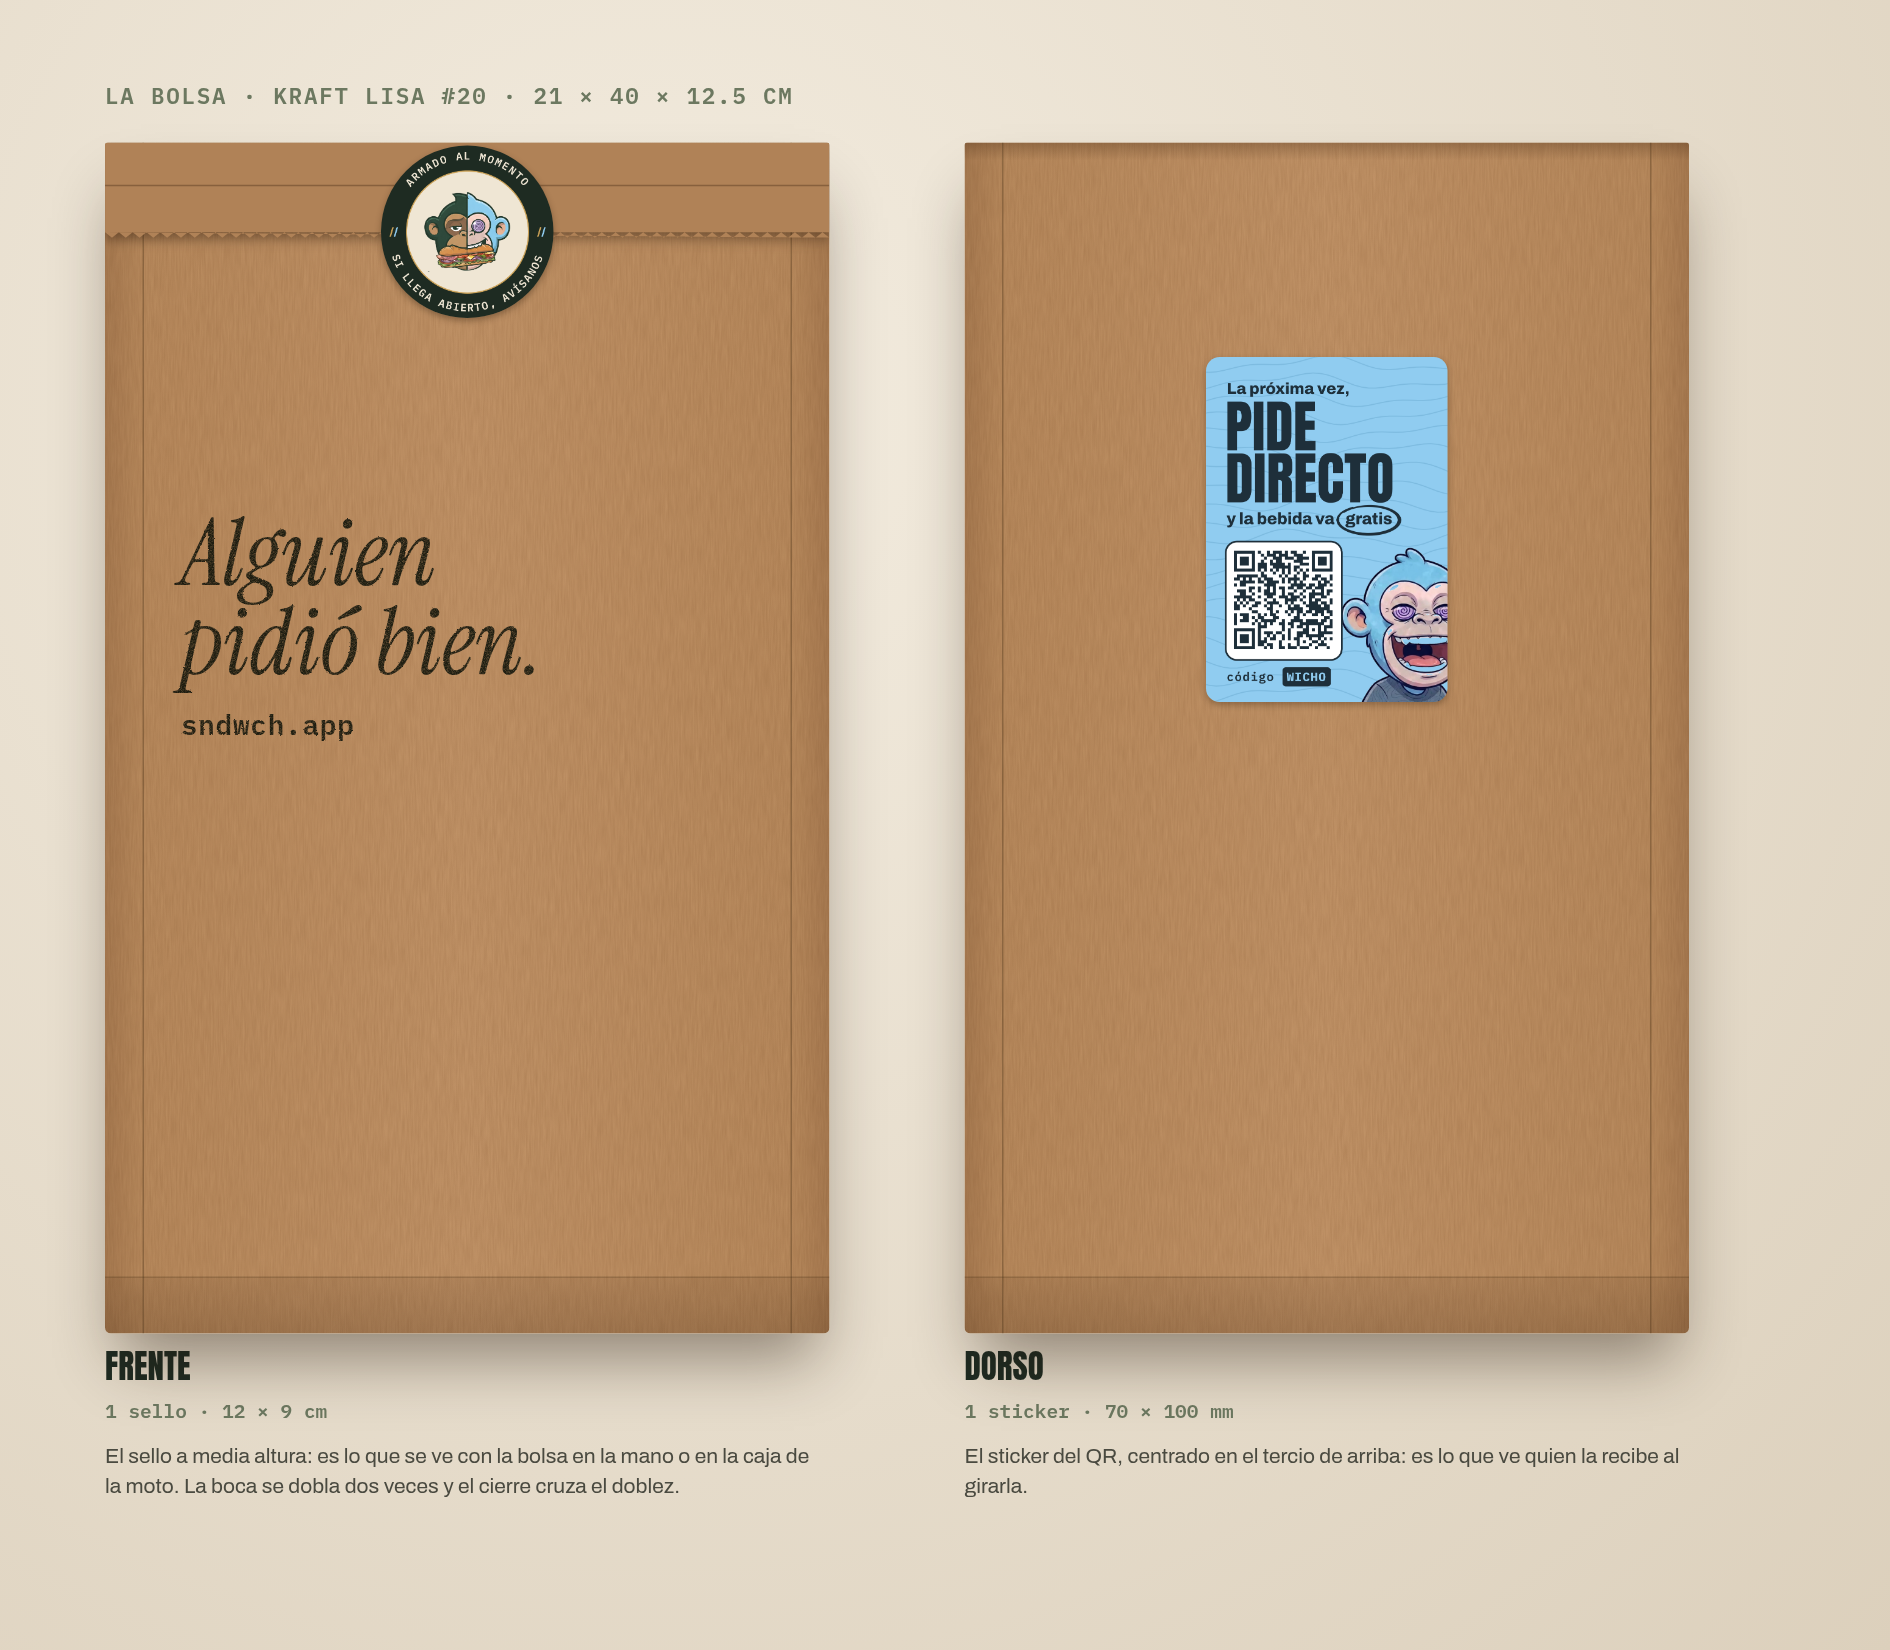
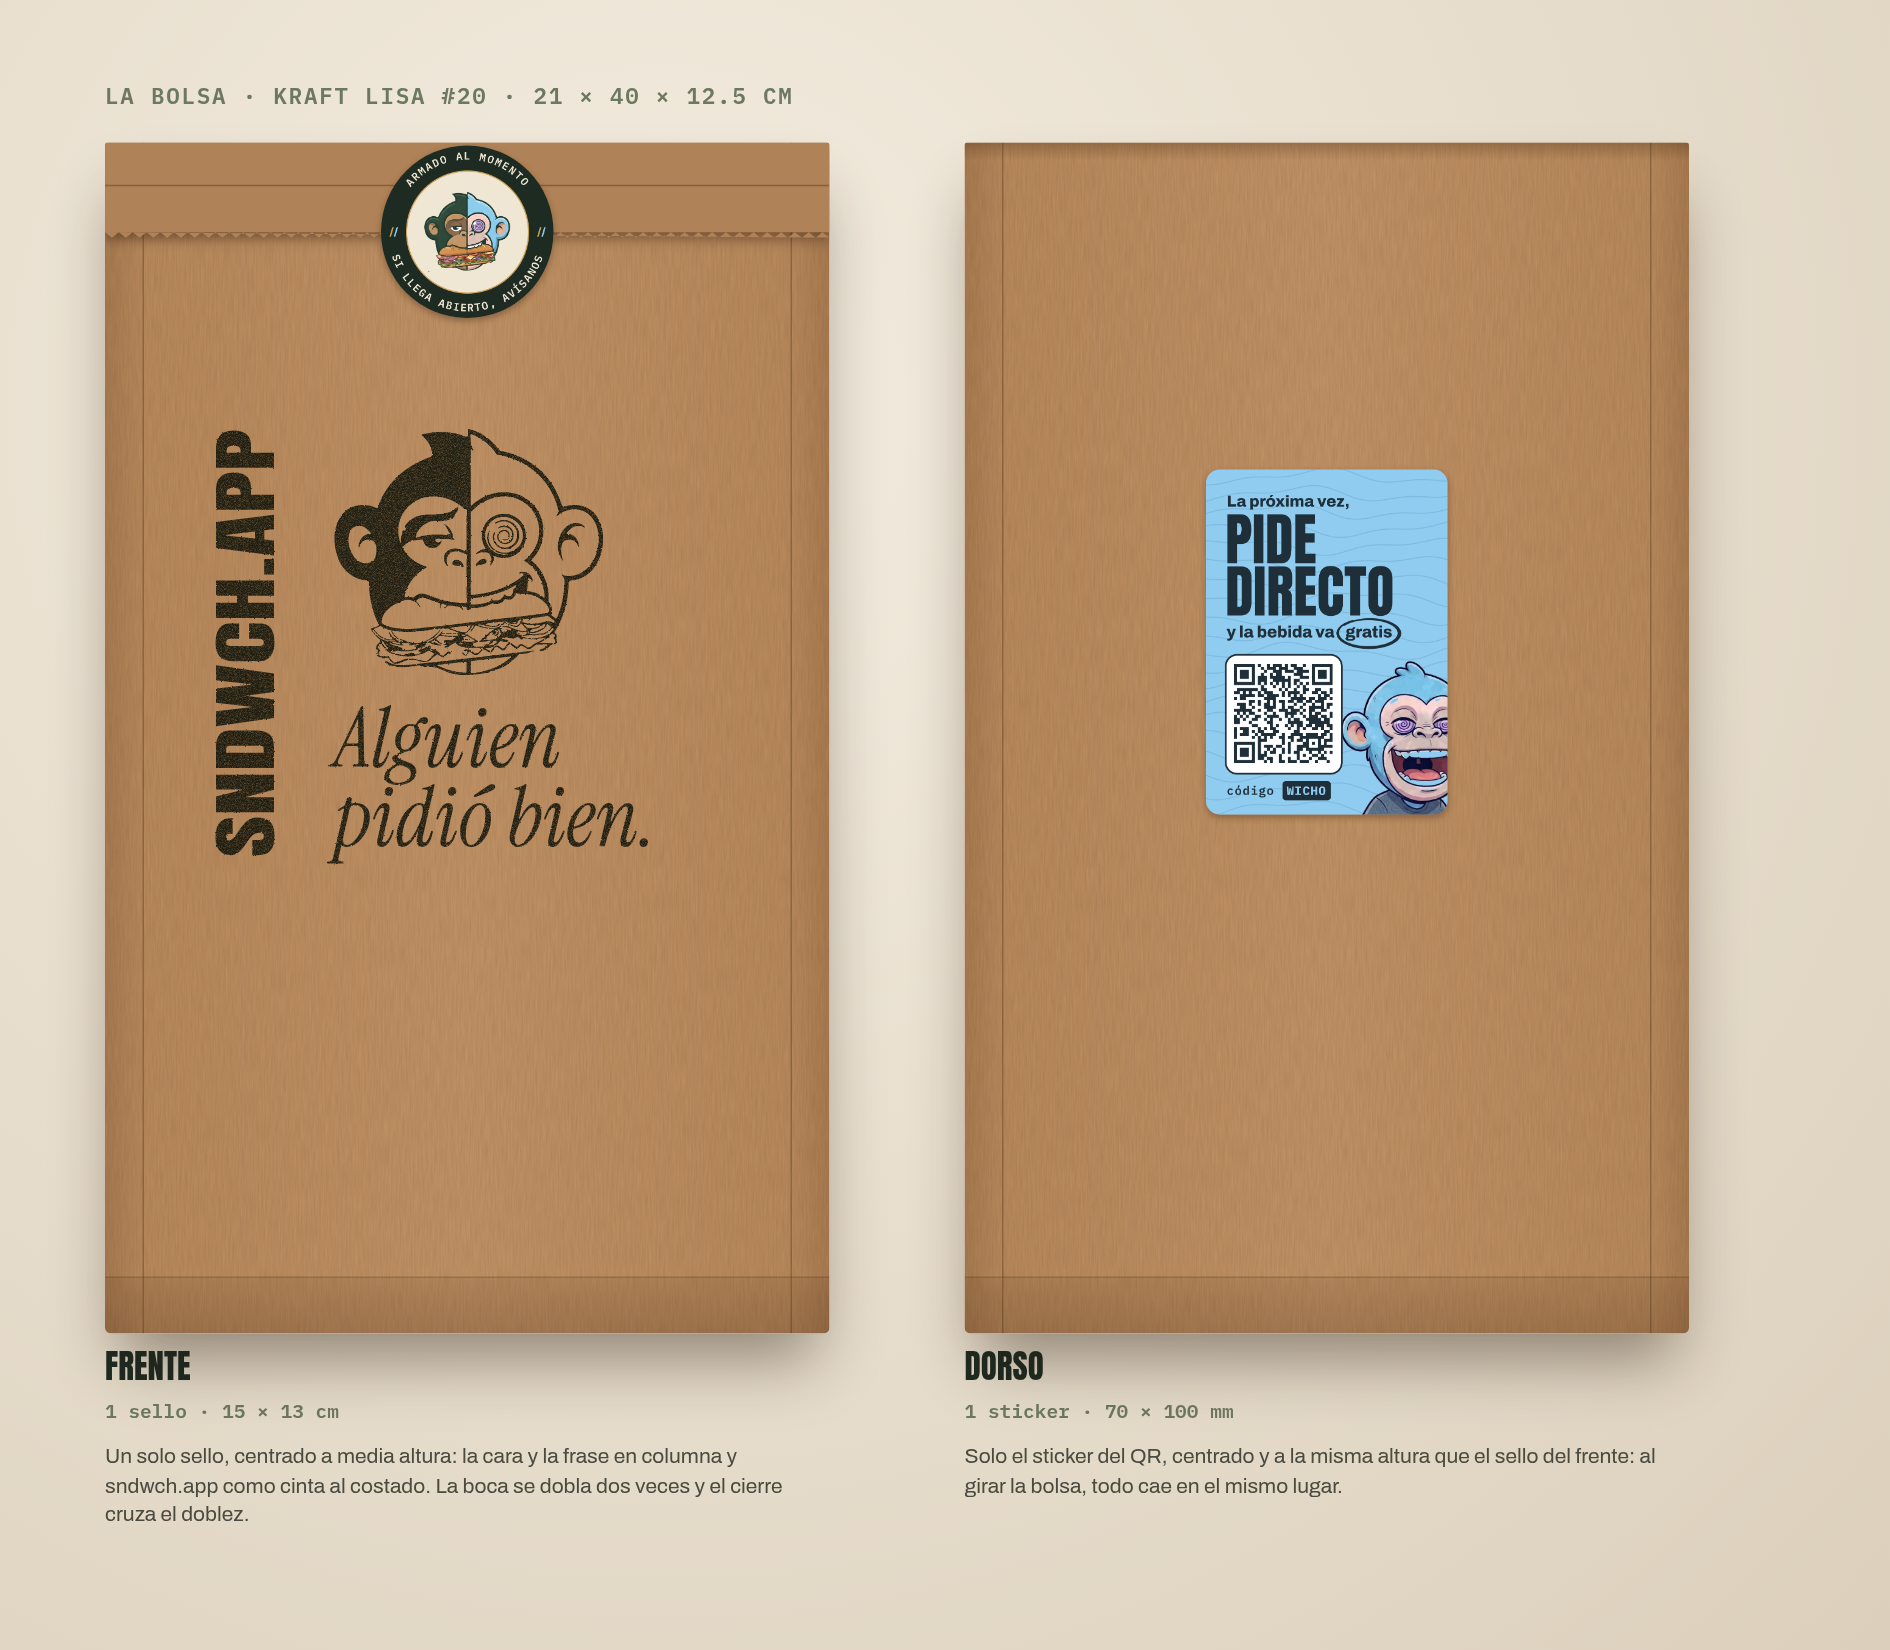
Bolsa: el frente elegido mezcla 1, 2 y 3 en un solo sello, con su dorso
- stickers.mjs: la mezcla (cara y frase en columna, sndwch.app como cinta vertical del mismo
  alto) como sello de 15 × 13 cm; la maqueta de dos caras la usa y el QR del dorso queda a la
  misma altura que el sello.
- bolsa/README.md: el frente elegido y por qué.

Claude-Session: https://claude.ai/code/session_01NCVgixMFGDjTdiWThGTz7g

diff --git a/docs/marketing/bolsa/README.md b/docs/marketing/bolsa/README.md
@@ -6,9 +6,19 @@ bolsa bien». **Es una propuesta**: nada se compra ni se imprime sin tu OK.
 
 ![la bolsa](maqueta-bolsa-lisa.png)
 
+## El frente elegido: la mezcla de 1, 2 y 3 (2026-10-09)
+Dueño: «Me gusta la idea del sello con el logo, me encantó. Mezcla 1, 2 y 3, estructúralo bonito y
+muéstrame cómo quedaría atrás». **Un solo sello de 15 × 13 cm** (`sellos/6-mezcla-150x130.pdf`):
+- **la cara de los hermanos** (de la 2) arriba y **«Alguien pidió bien.»** (de la 1) debajo, en
+  una columna alineada a la izquierda;
+- **sndwch.app como cinta vertical** (de la 3) al costado, del mismo alto que la columna, así todo
+  cuadra en un bloque.
+Va centrado a media altura. Al ser un solo sello no hay nada que alinear: se sella y listo.
+**El dorso** lleva solo el sticker del QR, centrado a la misma altura que el sello del frente.
+
 ## Cinco frentes para elegir (2026-10-09, dueño: «rediséñala bien, dame ejemplos»)
 Lo único que cambia entre ellos es lo **sellado**; el cierre, el dorso con el QR y la bolsa son
-los mismos. La maqueta de arriba muestra el 1 hasta que elijas.
+los mismos. La maqueta de arriba es la mezcla elegida.
 
 ![cinco frentes](ejemplos-bolsa.png)
 
@@ -32,7 +42,7 @@ nada compite: antes estaba todo apilado en la misma cara.
 | pieza | medida | dónde va | archivo | costo por pedido |
 |---|---|---|---|---|
 | **Bolsa** kraft lisa #20, 60 g | 21 × 40 × 12.5 cm | — | — | ~S/0.26 (S/220 el millar + IGV, offi.pe) |
-| **Sello** (según el frente elegido) | de 10 × 3 a 11 × 14 cm | frente | `sellos/` | ~S/0.01 de tinta (el sello se compra una vez) |
+| **Sello** de la mezcla (cara + frase + cinta) | 15 × 13 cm | frente, centrado a media altura | `sellos/6-mezcla-150x130.pdf` | ~S/0.01 de tinta (el sello se compra una vez) |
 | **Sticker de cierre** | Ø 50 mm | cruzando el doblez de la boca, al centro | `../stickers/1-cierre.pdf` | por cotizar |
 | **Sticker del QR** | 70 × 100 mm | dorso, centrado, a 6 cm del doblez | `../stickers/2-qr-bolsa.pdf` | por cotizar |
 | Papel manteca | — | adentro, en cada sándwich | (el que ya tienes) | S/0.075 |
